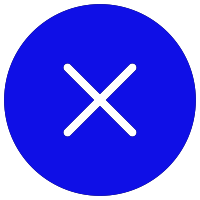
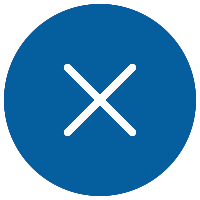
..

diff --git a/css/main.css b/css/main.css
@@ -11,7 +11,7 @@ header {
     position: fixed;
     width: 100%;
     height: 7vh;
-    background-color: blue;
+    background-color: #02698f;
     display: flex;
     justify-content: space-between;
     z-index: 50;
@@ -90,8 +90,11 @@ header .qna a {
     width: 40px;
     height: 40px;
 }
-.main {
+section, footer {
+    float: left;
     width: 100%;
+} 
+.main {
     height: 70vh;
     overflow: hidden;
 }
@@ -124,7 +127,6 @@ header .qna a {
     opacity: 1;
 }
 .promotion {
-    width: 100%;
     height: 45vh;
     padding: 10%;
     box-sizing: border-box;
@@ -154,10 +156,7 @@ header .qna a {
     margin-top: 6vw;
 }
 /*탭메뉴*/
-.tab {
-    width: 100%;
-    height: 71.5vh;
-}
+.tab {}
 .tab .tab_title {
     display: flex;
     justify-content: space-between;
@@ -167,7 +166,7 @@ header .qna a {
     text-align: center;
     font-size: 3.2vw;
     padding: 4%;
-    background-color: blue;
+    background-color: #02698f;
     border-right: 1px solid #191d29;
     color: #fff;
 }
@@ -175,10 +174,13 @@ header .qna a {
     border-right: none;
 }
 .tab .tab_title a.active {
-    background-color: #191d29;
+    background-color: #fff9;
+    color:#02698f;
+    font-weight: bold;
 }
 .tab .tab_content {
     position: relative;
+    height: 65vh;
 }
 .tab .tab_content div {
     position: absolute;
@@ -191,9 +193,9 @@ header .qna a {
 .tab .tab_content div p {
     width: 100%;
     margin: 0 auto;
-    padding: 2%;
+    padding: 2% 0;
     text-align: center;
-    font-size: 8.6vw;
+    font-size: 7vw;
     color: #fff;
     text-shadow: 3px 3px 3px #333;
     margin-top: 20vh;
@@ -223,7 +225,6 @@ header .qna a {
     text-align: center;
 }
 .system {
-    width: 100%;
     display: flex;
 }
 .system div {
@@ -382,7 +383,7 @@ header .qna a {
 footer {
     width: 100%;
     height: 40vh;
-    background-color: blue;
+    background-color:#02698f;
     font-size: 3vw;
     padding: 3vw;;
     line-height: 5vw;

diff --git a/index.html b/index.html
@@ -127,16 +127,12 @@
         <div class="tab_content">
             <div class="con1">
             <p>ABSOLUT GRAPEFRUIT</p>
-           <a href="#">제품보기</a>
             </div>
             <div class="con2">
             <p>ABSOLUT JUICE STRAWBERRY</p>
-           <a href="#">제품보기</a>
             </div>
             <div class="con3">
-            
-           <p>ABSOULT STORE</p>
-           <a href="#">제품보기</a>
+            <p>ABSOULT STORE</p>
             </div>
         </div>
 
@@ -144,12 +140,12 @@
         <section class="system">
         <div class="sys1">
         <h1>앱솔루트 모바일 멤버쉽</h1>
-        <p>앱솔루트로 특별한 멤버쉽 혜택을 받아보세요!</p>
+        <p>앱솔루트로 특별한 멤버쉽 혜택을<br> 받아보세요!</p>
        <a href="#">알아보기</a>
         </div>
          <div class="sys2">
          <h1>ABSOLUTART AWARD 2017</h1>
-         <p>2017 앱솔루트 어워드에 대해 자세히 알아보세요.</p>
+         <p>2017 앱솔루트 어워드에 대해<br> 자세히 알아보세요.</p>
          <a href="#">알아보기</a>
         </div>
         </section>
